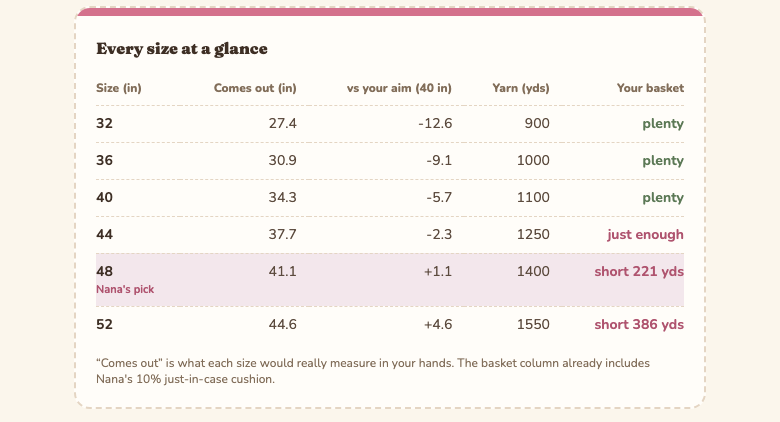
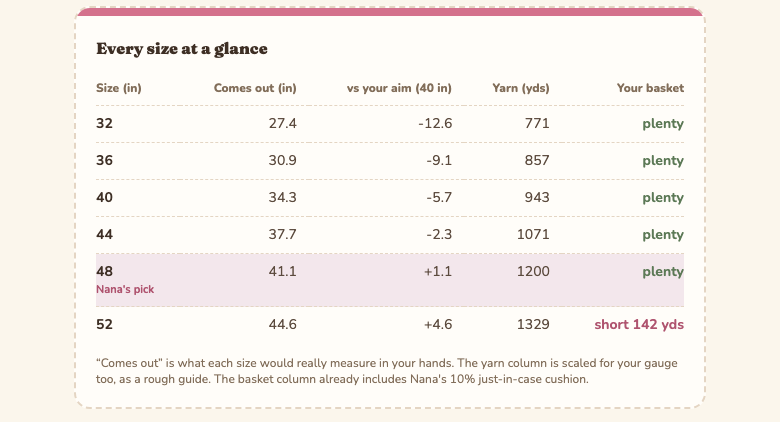
Scale the yardage for the hands that will knit it
The yarn card and the size table quoted the pattern's yardage exactly as
printed, but that figure assumes the pattern's gauge. Nana already picks
a size by stitch count, so a tight knitter is sent up to a 48 that comes
out 41 inches around — and 41 inches of sweater does not need 48 inches'
worth of yarn. She was telling that knitter to buy two skeins she would
never use, and telling a loose knitter the opposite, which is the version
that ends at the second sleeve with an empty basket.

Now, when both gauges are known, the pattern's figure is scaled by pg/ug
before the cushion goes on: to first order the yarn in a piece follows
the size of each stitch, and stitch size is one over gauge. It is a rough
guide — row gauge, stitch pattern and the yarn itself all pull on it — so
the card says so, in a postscript that shows the pattern's number next
to Nana's and only speaks up when the scaling actually moved the figure.
The table's yarn column goes through the same yarnAtGauge() the card
does, and its footnote gains a sentence when the column is scaled, so the
two cannot disagree.

Eleven new tests, including one that walks every table row against the
card. The README's table screenshot is recaptured, since its yarn column
now shows the scaled figures.

diff --git a/src/lib/advice.js b/src/lib/advice.js
@@ -79,39 +79,60 @@ export function adviseSize({ sizes, bust, ease, patternGauge, myGauge, closeGap 
    Nana adds 10% because running out at the second sleeve is heartbreak. */
 export const YARN_CUSHION = 1.1;
 
-export function adviseYarn({ yards, sizes, bestIdx, perSkein, skeins }) {
+/* A pattern's yardage assumes the pattern's gauge. Nana picks a size by
+   stitch count, so a tight knitter follows a bigger size that comes out
+   smaller — and less fabric wants less yarn. A loose knitter is the other
+   way round, which is the case that ends at the second sleeve. To first
+   order the yarn in a piece scales with the size of each stitch, and stitch
+   size is 1/gauge, so the pattern's figure is multiplied by pg/ug. Row
+   gauge, stitch pattern and the yarn itself all tug at that, which is why
+   every sentence built on it calls it a rough guide. Whole yards or metres,
+   like the figure it adjusts; unchanged while either gauge is missing. */
+export const yarnAtGauge = (need, patternGauge, myGauge) => {
+  const pg = num(patternGauge);
+  const ug = num(myGauge);
+  if (pg === null || ug === null) return need;
+  return Math.round((need * pg) / ug);
+};
+
+export function adviseYarn({ yards, sizes, bestIdx, perSkein, skeins, patternGauge, myGauge }) {
   const list = Array.isArray(yards) ? yards : [];
   const mismatch = list.length > 0 && list.length !== (sizes ? sizes.length : 0);
 
   if (list.length === 0) return { kind: "needSizes", tone: "ask", mismatch: false };
   if (list.length <= bestIdx) return { kind: "listShort", tone: "warn", mismatch: false };
 
-  const need = list[bestIdx];
+  /* `need` is what this knitter will use; `patternNeed` is what the pattern
+     printed, kept so the wording can show its working. The adjustment is
+     only worth a sentence when it actually moved the number. */
+  const patternNeed = list[bestIdx];
+  const need = yarnAtGauge(patternNeed, patternGauge, myGauge);
+  const gaugeAdjusted = need !== patternNeed;
+  const tighter = gaugeAdjusted && num(myGauge) > num(patternGauge);
   const buffered = Math.ceil(need * YARN_CUSHION);
   const per = num(perSkein);
   const cnt = num(skeins);
+  const common = { need, patternNeed, gaugeAdjusted, tighter, buffered, mismatch };
 
   if (per === null || cnt === null) {
-    return { kind: "askBasket", tone: "ask", need, buffered, mismatch };
+    return { kind: "askBasket", tone: "ask", ...common };
   }
 
   const have = r1(per * cnt);
   if (have >= buffered) {
-    return { kind: "allSet", tone: "ok", need, buffered, have, mismatch };
+    return { kind: "allSet", tone: "ok", ...common, have };
   }
   if (have >= need) {
-    return { kind: "justCovers", tone: "warn", need, buffered, have, mismatch };
+    return { kind: "justCovers", tone: "warn", ...common, have };
   }
   const shortAmt = Math.ceil(buffered - have);
   return {
     kind: "short",
     tone: "warn",
-    need,
-    buffered,
+    ...common,
     have,
     shortAmt,
     moreSkeins: Math.ceil(shortAmt / per),
-    mismatch,
   };
 }
 
@@ -198,8 +219,10 @@ export function sizeTable({
     const diff = r1(actual - r1(target));
 
     /* Yardage lines up with sizes by position; a shorter list simply runs
-       out, and the missing cells stay honest blanks instead of guesses. */
-    const need = i < list.length ? list[i] : null;
+       out, and the missing cells stay honest blanks instead of guesses.
+       Scaled for gauge exactly as the yarn card scales its own figure. */
+    const patternNeed = i < list.length ? list[i] : null;
+    const need = patternNeed === null ? null : yarnAtGauge(patternNeed, patternGauge, myGauge);
 
     let stash = null;
     let shortAmt = null;
@@ -218,6 +241,7 @@ export function sizeTable({
       actual,
       diff,
       need,
+      patternNeed,
       stash,
       shortAmt,
       best: i === bestIdx,
@@ -232,6 +256,9 @@ export function sizeTable({
     /* Whether the basket column has anything to say. A stocked basket with no
        yardage list would otherwise draw a whole column of dashes. */
     hasVerdicts: rows.some((r) => r.stash !== null),
+    /* Whether the yarn column shows something other than the pattern's own
+       figures — worth a footnote, and only then. */
+    yarnAdjusted: rows.some((r) => r.need !== null && r.need !== r.patternNeed),
     target: r1(target),
   };
 }

diff --git a/src/lib/advice.test.js b/src/lib/advice.test.js
@@ -465,3 +465,77 @@ describe("adviseRows", () => {
     assert.equal(adviseRows({ patternRowGauge: "24,5", myRowGauge: "24.5", swatchSpan: 10 }).kind, "match");
   });
 });
+
+describe("adviseYarn: scaled for the knitter's gauge", () => {
+  /* Size 48 quotes 1400 yds. At 21 stitches against the pattern's 18, each
+     stitch is 18/21 the size, so the same instructions eat 18/21 the yarn. */
+  const at = (over) =>
+    adviseYarn({
+      yards: YARDS, sizes: SIZES, bestIdx: 4, perSkein: 220, skeins: 7,
+      patternGauge: 18, myGauge: 21, ...over,
+    });
+
+  test("a tight knitter's bigger size wants less yarn than the pattern printed", () => {
+    const r = at();
+    assert.equal(r.patternNeed, 1400);
+    assert.equal(r.need, 1200);
+    assert.equal(r.gaugeAdjusted, true);
+    assert.equal(r.tighter, true);
+    assert.equal(r.buffered, Math.ceil(1200 * 1.1));
+    assert.equal(r.kind, "allSet");
+  });
+
+  test("a loose knitter needs more, which is the heartbreak case", () => {
+    const r = at({ myGauge: 16 });
+    assert.equal(r.need, 1575);
+    assert.equal(r.tighter, false);
+    /* 7 x 220 = 1540 covered the pattern's 1400 handsomely; not this. */
+    assert.equal(r.kind, "short");
+  });
+
+  test("with either gauge missing the pattern's figure stands, unadjusted", () => {
+    for (const over of [{ myGauge: null }, { patternGauge: "" }]) {
+      const r = at(over);
+      assert.equal(r.need, 1400);
+      assert.equal(r.gaugeAdjusted, false);
+      assert.equal(r.tighter, false);
+    }
+  });
+
+  test("matching gauges change nothing, and claim nothing", () => {
+    const r = at({ myGauge: 18 });
+    assert.equal(r.need, 1400);
+    assert.equal(r.gaugeAdjusted, false);
+  });
+
+  test("string gauges, as the fields deliver them, work too", () => {
+    assert.equal(at({ patternGauge: "18", myGauge: "21" }).need, 1200);
+  });
+
+  test("the table's yarn column and verdicts agree with the card at every size", () => {
+    const tbl = sizeTable({
+      sizes: SIZES, yards: YARDS, bust: 38, ease: 2, patternGauge: 18, myGauge: 21,
+      perSkein: 220, skeins: 6, bestIdx: 4, runnerUp: null,
+    });
+    assert.equal(tbl.yarnAdjusted, true);
+    tbl.rows.forEach((row, i) => {
+      const card = adviseYarn({
+        yards: YARDS, sizes: SIZES, bestIdx: i, perSkein: 220, skeins: 6,
+        patternGauge: 18, myGauge: 21,
+      });
+      assert.equal(row.need, card.need, `size ${row.size}`);
+      assert.equal(row.patternNeed, YARDS[i]);
+      const verdict = { allSet: "plenty", justCovers: "justEnough", short: "short" }[card.kind];
+      assert.equal(row.stash, verdict, `size ${row.size}`);
+    });
+  });
+
+  test("the table only claims an adjustment when a number actually moved", () => {
+    const tbl = sizeTable({
+      sizes: SIZES, yards: YARDS, bust: 38, ease: 2, patternGauge: 18, myGauge: 18,
+      perSkein: 220, skeins: 6, bestIdx: 2, runnerUp: null,
+    });
+    assert.equal(tbl.yarnAdjusted, false);
+    assert.equal(tbl.rows[4].need, 1400);
+  });
+});

diff --git a/src/i18n/es.js b/src/i18n/es.js
@@ -205,6 +205,10 @@ export default {
         `Ay, mi vida. Tienes ${have} ${yarnU} pero esta talla quiere ${need} ${yarnU} (${buffered} con un colchón seguro). Consigue unos ${shortAmt} ${yarnU} más, más o menos ${moreSkeins} ${moreSkeins === 1 ? "madeja" : "madejas"} más, antes de empezar.`,
       mismatch:
         " P. D. Tu lista de tallas y la de lana tienen distinto largo, así que dales una miradita.",
+      /* Se añade cuando la lana se ajustó a la muestra de quien teje, para
+         que la cifra de arriba no parezca una errata de la del patrón. */
+      adjusted: ({ patternNeed, need, tighter, yarnU }) =>
+        ` El patrón indica ${patternNeed} ${yarnU} para esta talla, pero tus puntos son ${tighter ? "más chicos" : "más grandes"} que los de su muestra, así que Nana calcula unos ${need} ${yarnU} en tus manos. Es un cálculo aproximado, mi vida, y justo para eso está el colchoncito.`,
     },
 
     gauge: {
@@ -252,10 +256,13 @@ export default {
     plenty: "de sobra",
     justEnough: "apenas alcanza",
     short: ({ shortAmt, yarnU }) => `faltan ${shortAmt} ${yarnU}`,
-    note: ({ gaugeAdjusted, hasVerdicts }) =>
+    note: ({ gaugeAdjusted, hasVerdicts, yarnAdjusted }) =>
       [
         gaugeAdjusted
           ? "«Te saldría» es lo que cada talla mediría de verdad en tus manos."
+          : "",
+        yarnAdjusted
+          ? "La columna de lana también está ajustada a tu muestra, como cálculo aproximado."
           : "",
         hasVerdicts
           ? "La columna de la canasta ya incluye el colchoncito del 10 % de Nana por si acaso."
@@ -287,7 +294,7 @@ export default {
     size:
       "tu medida del cuerpo más la holgura que elegiste dan un objetivo. Nana elige la talla del patrón cuya medida terminada quede más cerca. Si le diste tu propia muestra, primero ajusta cada talla a cómo saldría de verdad en tus manos.",
     yarn:
-      "lee la cantidad de lana de tu talla, le suma un colchón del 10 % porque quedarse sin lana en la segunda manga parte el alma, y lo compara con las madejas por su metraje en tu canasta.",
+      "lee la cantidad de lana de tu talla (ajustada a tu muestra si se la diste, porque los puntos más chicos llevan menos lana y los más grandes, más), le suma un colchón del 10 % porque quedarse sin lana en la segunda manga parte el alma, y lo compara con las madejas por su metraje en tu canasta.",
     tension:
       "el ancho terminado es la cantidad de puntos dividida entre la muestra. Si tu muestra difiere de la del patrón, las mismas instrucciones dan otra talla, así que ella te hace esa cuenta.",
     length:

diff --git a/src/i18n/en.js b/src/i18n/en.js
@@ -205,6 +205,11 @@ export default {
         `Oh dear. You have ${have} ${yarnU} but this size wants ${need} ${yarnU} (${buffered} with a safe cushion). Pick up about ${shortAmt} more ${yarnU}, roughly ${moreSkeins} more ${moreSkeins === 1 ? "skein" : "skeins"}, before you start.`,
       mismatch:
         " P.S. Your sizes and yardage lists are different lengths, so give them a quick once-over.",
+      /* Appended whenever the yardage was scaled for the knitter's gauge, so
+         the figure in the sentence above never looks like a misprint of the
+         one in her pattern. */
+      adjusted: ({ patternNeed, need, tighter, yarnU }) =>
+        ` The pattern quotes ${patternNeed} ${yarnU} for this size, but your stitches are ${tighter ? "smaller" : "bigger"} than its gauge, so Nana reckons about ${need} ${yarnU} in your hands. That is a rough guide, dear, which is exactly what the cushion is for.`,
     },
 
     gauge: {
@@ -252,10 +257,13 @@ export default {
     plenty: "plenty",
     justEnough: "just enough",
     short: ({ shortAmt, yarnU }) => `short ${shortAmt} ${yarnU}`,
-    note: ({ gaugeAdjusted, hasVerdicts }) =>
+    note: ({ gaugeAdjusted, hasVerdicts, yarnAdjusted }) =>
       [
         gaugeAdjusted
           ? "“Comes out” is what each size would really measure in your hands."
+          : "",
+        yarnAdjusted
+          ? "The yarn column is scaled for your gauge too, as a rough guide."
           : "",
         hasVerdicts
           ? "The basket column already includes Nana's 10% just-in-case cushion."
@@ -287,7 +295,7 @@ export default {
     size:
       "your body measurement plus your chosen ease gives a target. Nana picks the pattern size whose finished measurement lands closest to it. If you gave her your own gauge, she first adjusts each size to how it would really come out in your hands.",
     yarn:
-      "she reads the yardage for your size, adds a 10% cushion because running out at the second sleeve is heartbreak, and compares it with skeins times yardage in your basket.",
+      "she reads the yardage for your size — scaled for your gauge if she has it, since smaller stitches take less yarn and bigger ones more — adds a 10% cushion because running out at the second sleeve is heartbreak, and compares it with skeins times yardage in your basket.",
     tension:
       "finished width is stitch count divided by gauge. If your gauge differs from the pattern's, the same instructions produce a different size, so she does that arithmetic for you.",
     length:

diff --git a/src/i18n/wording.test.js b/src/i18n/wording.test.js
@@ -150,10 +150,12 @@ for (const lang of LANGS) {
 
     /* ---------- the all-sizes table ---------- */
     test("the size table: headers, badges and every basket verdict", () => {
-      /* A basket sized so the table produces all three verdicts at once. */
+      /* A basket sized so the table produces all three verdicts at once —
+         against the yardage as scaled for a 21-against-18 knitter, which is
+         what the table now shows. */
       const tbl = sizeTable({
         sizes: SIZES, yards: YARDS, bust: 38, ease: 2,
-        patternGauge: 18, myGauge: 21, perSkein: 220, skeins: 6,
+        patternGauge: 18, myGauge: 21, perSkein: 220, skeins: 5,
         bestIdx: 4, runnerUp: 44,
       });
       assert.ok(tbl.gaugeAdjusted && tbl.hasVerdicts, "the fixture went quiet");
@@ -300,6 +302,31 @@ for (const lang of LANGS) {
       for (const key of ["swatchStitches", "swatchAcross", "swatchRows", "swatchTall"]) {
         assert.ok(ph[key], `${lang} ph.${key} is missing`);
       }
+    });
+  });
+}
+
+/* ---------- yardage scaled for gauge ---------- */
+for (const lang of LANGS) {
+  describe(`${lang}: the gauge postscript on the yarn card`, () => {
+    test("tight and loose, on a kind that quotes the figure", () => {
+      for (const myGauge of [21, 16]) {
+        const y = adviseYarn({ yards: YARDS, sizes: SIZES, bestIdx: 4, perSkein: 220, skeins: 7, patternGauge: 18, myGauge });
+        assert.equal(y.gaugeAdjusted, true, "the fixture did not adjust");
+        const text =
+          say(lang, `result.yarn.${y.kind}`, { ...y, best: 48, yarnU: UNITS.yarnU }) +
+          say(lang, "result.yarn.adjusted", { ...y, yarnU: UNITS.yarnU });
+        assertSentence(text, `${lang} yarn/adjusted/${myGauge}`);
+        /* Both figures must appear, or the postscript is not showing its working. */
+        assert.ok(text.includes(String(y.patternNeed)) && text.includes(String(y.need)), text);
+      }
+    });
+
+    test("the table note mentions the yarn column only when it was scaled", () => {
+      const scaled = say(lang, "table.note", { gaugeAdjusted: true, hasVerdicts: true, yarnAdjusted: true });
+      const plain = say(lang, "table.note", { gaugeAdjusted: true, hasVerdicts: true, yarnAdjusted: false });
+      assertSentence(scaled, `${lang} table/note/scaled`);
+      assert.ok(scaled.length > plain.length && scaled.startsWith(plain.split(" ")[0]));
     });
   });
 }

diff --git a/src/NanaKnows.jsx b/src/NanaKnows.jsx
@@ -629,7 +629,7 @@ export default function NanaKnows() {
       bust: b,
       easeIdx,
       size,
-      yarn: adviseYarn({ yards, sizes, bestIdx: size.bestIdx, perSkein, skeins }),
+      yarn: adviseYarn({ yards, sizes, bestIdx: size.bestIdx, perSkein, skeins, patternGauge, myGauge }),
       gauge: adviseGauge({ patternGauge, myGauge, best: size.best }),
       row: adviseRows({ patternRowGauge, myRowGauge, swatchSpan }),
       /* Null when there is only one size — nothing to compare. The best and
@@ -713,8 +713,15 @@ export default function NanaKnows() {
 
   const yarnText = () => {
     const y = results.yarn;
-    const body = t(`result.yarn.${y.kind}`, { ...y, best: results.size.best, yarnU: said().yarnU });
-    return y.mismatch ? body + t("result.yarn.mismatch") : body;
+    const yarnU = said().yarnU;
+    const body = t(`result.yarn.${y.kind}`, { ...y, best: results.size.best, yarnU });
+    /* Postscripts in a fixed order: the gauge working first, because it
+       explains the figure just quoted, then the list-length nag. */
+    return (
+      body +
+      (y.gaugeAdjusted ? t("result.yarn.adjusted", { ...y, yarnU }) : "") +
+      (y.mismatch ? t("result.yarn.mismatch") : "")
+    );
   };
 
   const gaugeText = () => {
@@ -745,6 +752,7 @@ export default function NanaKnows() {
     t("table.note", {
       gaugeAdjusted: results.table.gaugeAdjusted,
       hasVerdicts: results.table.hasVerdicts,
+      yarnAdjusted: results.table.yarnAdjusted,
     });
 
   /* One table row as a line of plain text, for the Ravelry copy below. */

diff --git a/CLAUDE.md b/CLAUDE.md
@@ -11,7 +11,7 @@ Read `HANDOFF.md` next for project history, current state and the roadmap.
 ```bash
 npm run dev      # Vite dev server (PWA enabled in dev, so what you test matches what ships)
 npm run build    # production build into dist/
-npm test         # node --test "src/**/*.test.js"  — 183 tests, ~75ms, zero dependencies
+npm test         # node --test "src/**/*.test.js"  — 194 tests, ~75ms, zero dependencies
 ```
 
 The quoted glob in `test` matters. Bare `node --test src/` fails: this Node treats
@@ -27,9 +27,9 @@ src/
                     parseOne is the only correct way to read a single-value field.
   lib/advice.js     the arithmetic. Numbers in, {kind, tone, ...numbers} out.
   i18n/index.jsx    I18nProvider / useI18n / t(). ~90 lines.
-  i18n/en.js        124 keys
-  i18n/es.js        124 keys, same shape
-  *.test.js         parse 64, advice 62, wording 57
+  i18n/en.js        125 keys
+  i18n/es.js        125 keys, same shape
+  *.test.js         parse 64, advice 69, wording 61
 ```
 
 ### The load-bearing idea
@@ -90,6 +90,12 @@ Size maths: `target = measurement + ease`; a pattern size `s` is a stitch count
 of `s*pg/4`, so worked at your gauge it comes out `s*pg/ug` wide. Best size
 minimises `|realWidth(s) - target|`. The runner-up ranks **by fit**, not by
 nearness in inches — those differ on unevenly spaced size ranges.
+
+Yardage at your gauge is the pattern's figure × `pg/ug` (first order: yarn per
+stitch follows stitch size, which is one over gauge), rounded to whole yards.
+`yarnAtGauge()` does it for the yarn card and for every table row — one
+function, so the two cannot disagree — and the wording only mentions the
+scaling when it actually moved the number.
 
 ## Voice
 

diff --git a/HANDOFF.md b/HANDOFF.md
@@ -190,9 +190,10 @@ Ordered by value per hour. All respect the no-backend rule.
    button that writes the answer into the gauge fields.
 2. ~~**An all-sizes comparison table.**~~ Shipped 31 August 2026 in `1c24f84`;
    see the top of this file. The README carries its screenshot.
-3. **Yarn estimate adjusted for gauge.** Knitting looser eats more yarn for the
-   same stitch counts. Even a first-order `pg/ug` scaling with an honest "this is
-   a rough guide, dear" beats ignoring it.
+3. ~~**Yarn estimate adjusted for gauge.**~~ Shipped 1 September 2026:
+   `yarnAtGauge()` in `advice.js` scales the pattern's figure by `pg/ug` for
+   the yarn card and the table alike, with a postscript that shows the
+   pattern's number beside Nana's and calls it a rough guide.
 4. **Multiple saved projects** — a named picker over the same localStorage. The
    natural follow-on now that share links exist.
 5. **Grams as well as yards.** Many European ball bands lead with weight.

diff --git a/README.md b/README.md
@@ -20,7 +20,10 @@ Free forever. No account. Nothing collected. Knit and crochet both welcome.
   covers it — with Nana's pick marked. Handy when you land between sizes, or
   the stash is what it is.
 - **Checks whether the yarn in your basket covers it**, with a 10% just-in-case
-  cushion, because running out at the second sleeve is heartbreak.
+  cushion, because running out at the second sleeve is heartbreak. If she has
+  your gauge she scales the pattern's yardage first — smaller stitches take
+  less yarn, bigger ones more — and shows both figures so you can see her
+  working.
 - **Checks row gauge too**, so you know whether the pattern's row counts will
   land at the length it intended, and how many rows to work instead if not.
 - **Turns a counted swatch into a gauge.** "22 stitches across 4¼ inches" is
